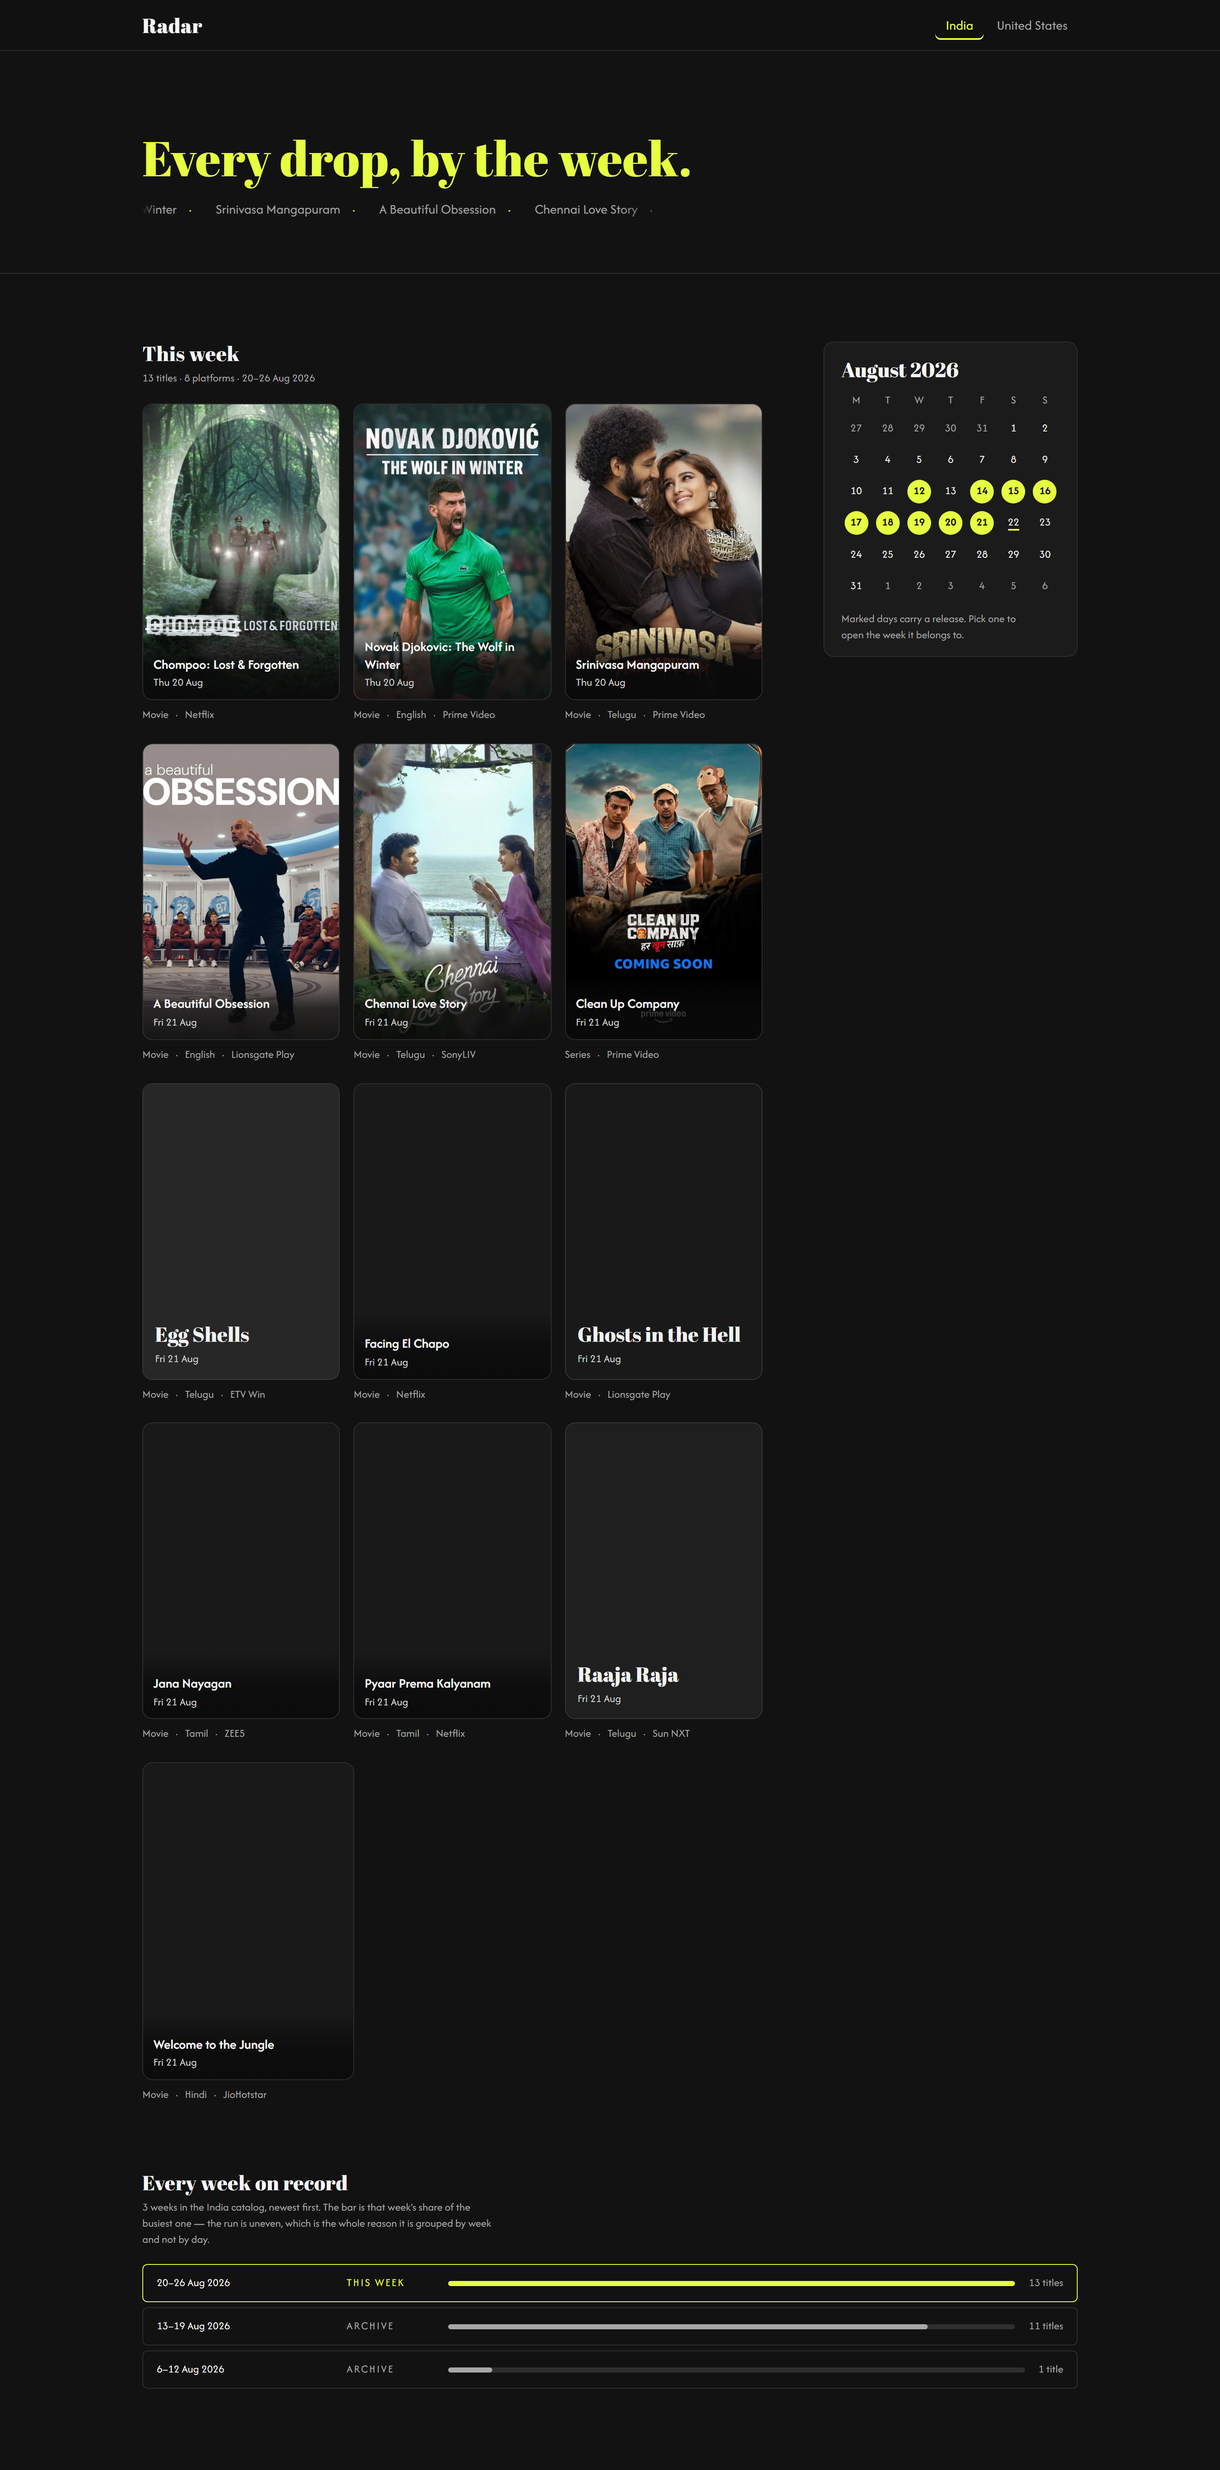
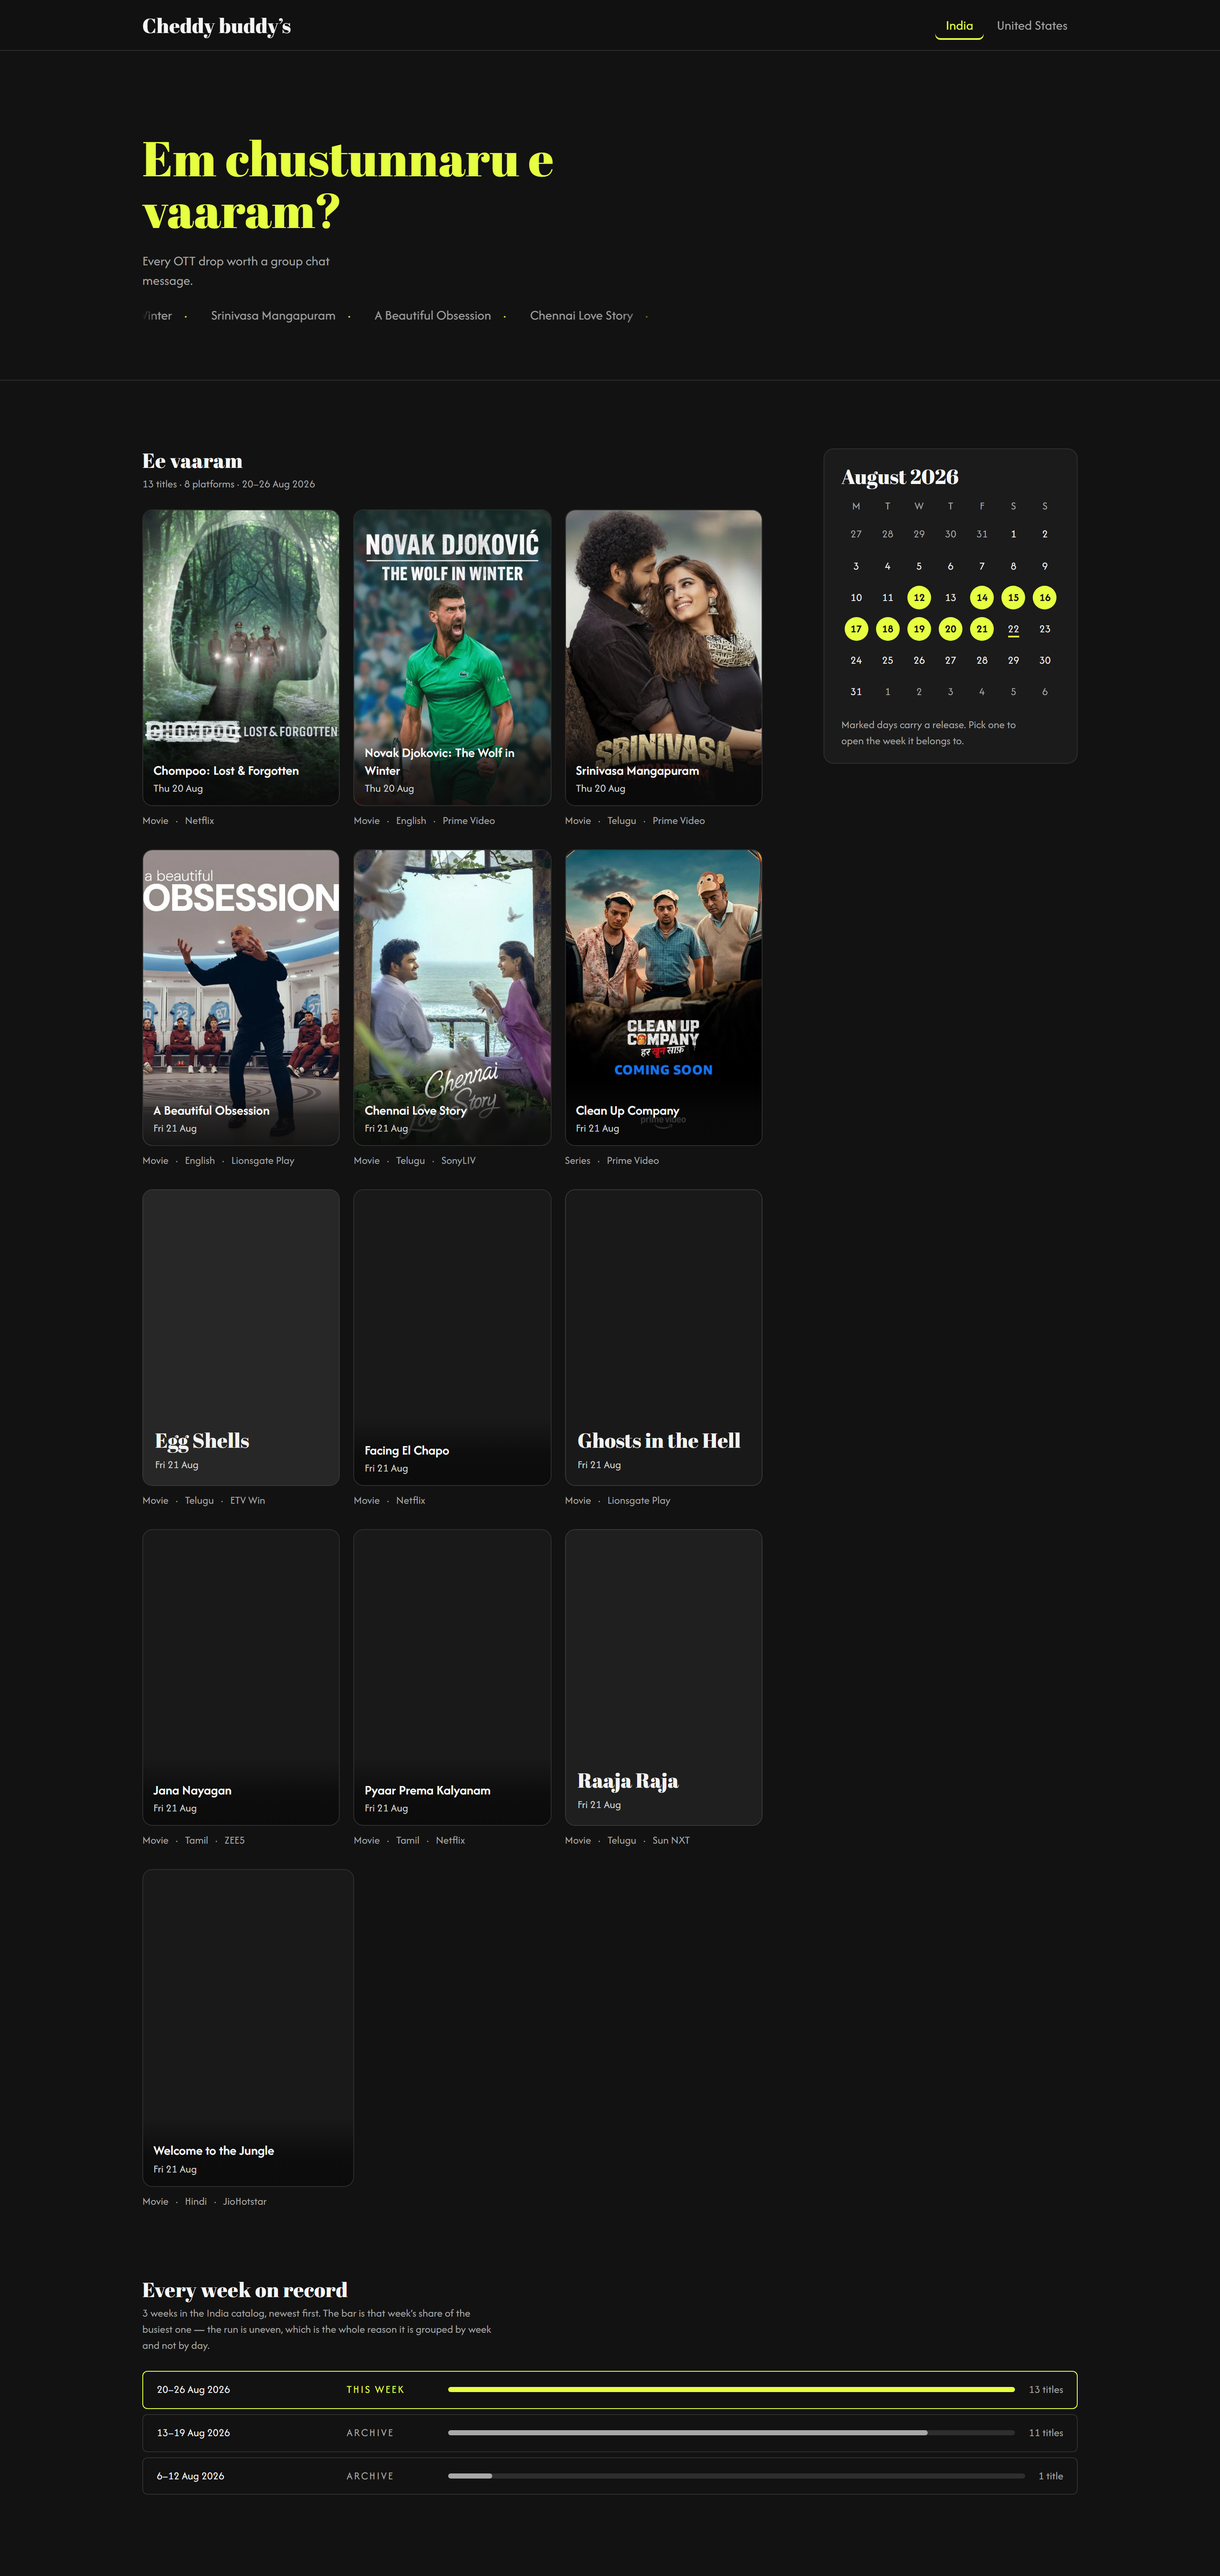
v7: rebrand for the Cheddy buddy's group chat
Pulled real voice from the group's own WhatsApp export rather than
inventing copy: the group renamed itself "Cheddy buddy's" mid-chat after
Sai asked "Em chustunnaru e vaaram?" ("what's everyone watching this
week?") — that line is now the actual hero headline, and the site name
matches the group name exactly. Empty/waste-week copy borrows their own
verdict word ("waste") instead of a generic "no titles" message.

diff --git a/lab/src/routes/v7/V7.jsx b/lab/src/routes/v7/V7.jsx
@@ -291,7 +291,7 @@ function Nav({ region, regions, onRegion }) {
   return (
     <header className="v7-nav">
       <a className="v7-nav__mark" href="#v7-top">
-        Radar
+        Cheddy buddy&rsquo;s
       </a>
       <nav className="v7-nav__links" ref={ref} onPointerMove={onMove} onPointerLeave={onLeave}>
         <ul>
@@ -540,7 +540,8 @@ export default function V7() {
       />
 
       <section className="v7-hero">
-        <h1 className="v7-hero__title">Every drop, by the week.</h1>
+        <h1 className="v7-hero__title">Em chustunnaru e vaaram?</h1>
+        <p className="v7-hero__sub">Every OTT drop worth a group chat message.</p>
         <Ticker items={week.items} />
       </section>
 
@@ -549,11 +550,11 @@ export default function V7() {
           <div className="v7-slate">
             <div className="v7-head">
               <h2 className="v7-head__label" id="v7-week">
-                {standing === 'this week' ? 'This week' : formatWeekRange(week.start)}
+                {standing === 'this week' ? 'Ee vaaram' : formatWeekRange(week.start)}
               </h2>
               <p className="v7-head__note">
                 {week.items.length === 0
-                  ? `Nothing scheduled in ${REGION_OF[region]}`
+                  ? `Waste week — nothing dropped in ${REGION_OF[region]}`
                   : `${week.items.length} title${week.items.length === 1 ? '' : 's'} · ${platformCount} platform${platformCount === 1 ? '' : 's'} · ${week.range}`}
                 {standing !== 'this week' && week.items.length > 0 && (
                   <span className="v7-flag"> {standing}</span>
@@ -578,7 +579,8 @@ export default function V7() {
                  is the actual defect. */
               <div className="v7-empty">
                 <p className="v7-empty__lead">
-                  No titles land in {REGION_OF[region]} in the week of {formatWeekRange(week.start)}.
+                  Full waste — nothing landed in {REGION_OF[region]} the week of{' '}
+                  {formatWeekRange(week.start)}.
                 </p>
                 {nextRun ? (
                   <button
@@ -590,7 +592,7 @@ export default function V7() {
                   </button>
                 ) : (
                   <button type="button" className="v7-btn" onClick={() => setParam('week', null)}>
-                    Back to this week
+                    Back to ee vaaram
                   </button>
                 )}
               </div>

diff --git a/lab/index.html b/lab/index.html
@@ -4,7 +4,8 @@
     <meta charset="UTF-8" />
     <link rel="icon" type="image/svg+xml" href="/favicon.svg" />
     <meta name="viewport" content="width=device-width, initial-scale=1.0" />
-    <title>lab</title>
+    <meta name="description" content="Cheddy buddy's own drop-by-week radar — em chustunnaru e vaaram?" />
+    <title>Cheddy buddy's</title>
   </head>
   <body>
     <div id="root"></div>

diff --git a/lab/src/routes/v7/v7.css b/lab/src/routes/v7/v7.css
@@ -275,6 +275,14 @@
   color: var(--accent);
 }
 
+.v7-hero__sub {
+  max-width: 28ch;
+  margin: 0;
+  font-family: var(--font);
+  font-size: var(--t-body);
+  color: var(--muted);
+}
+
 /* --------------------------------------------------------------- ticker --- */
 
 .v7-ticker__sr {
